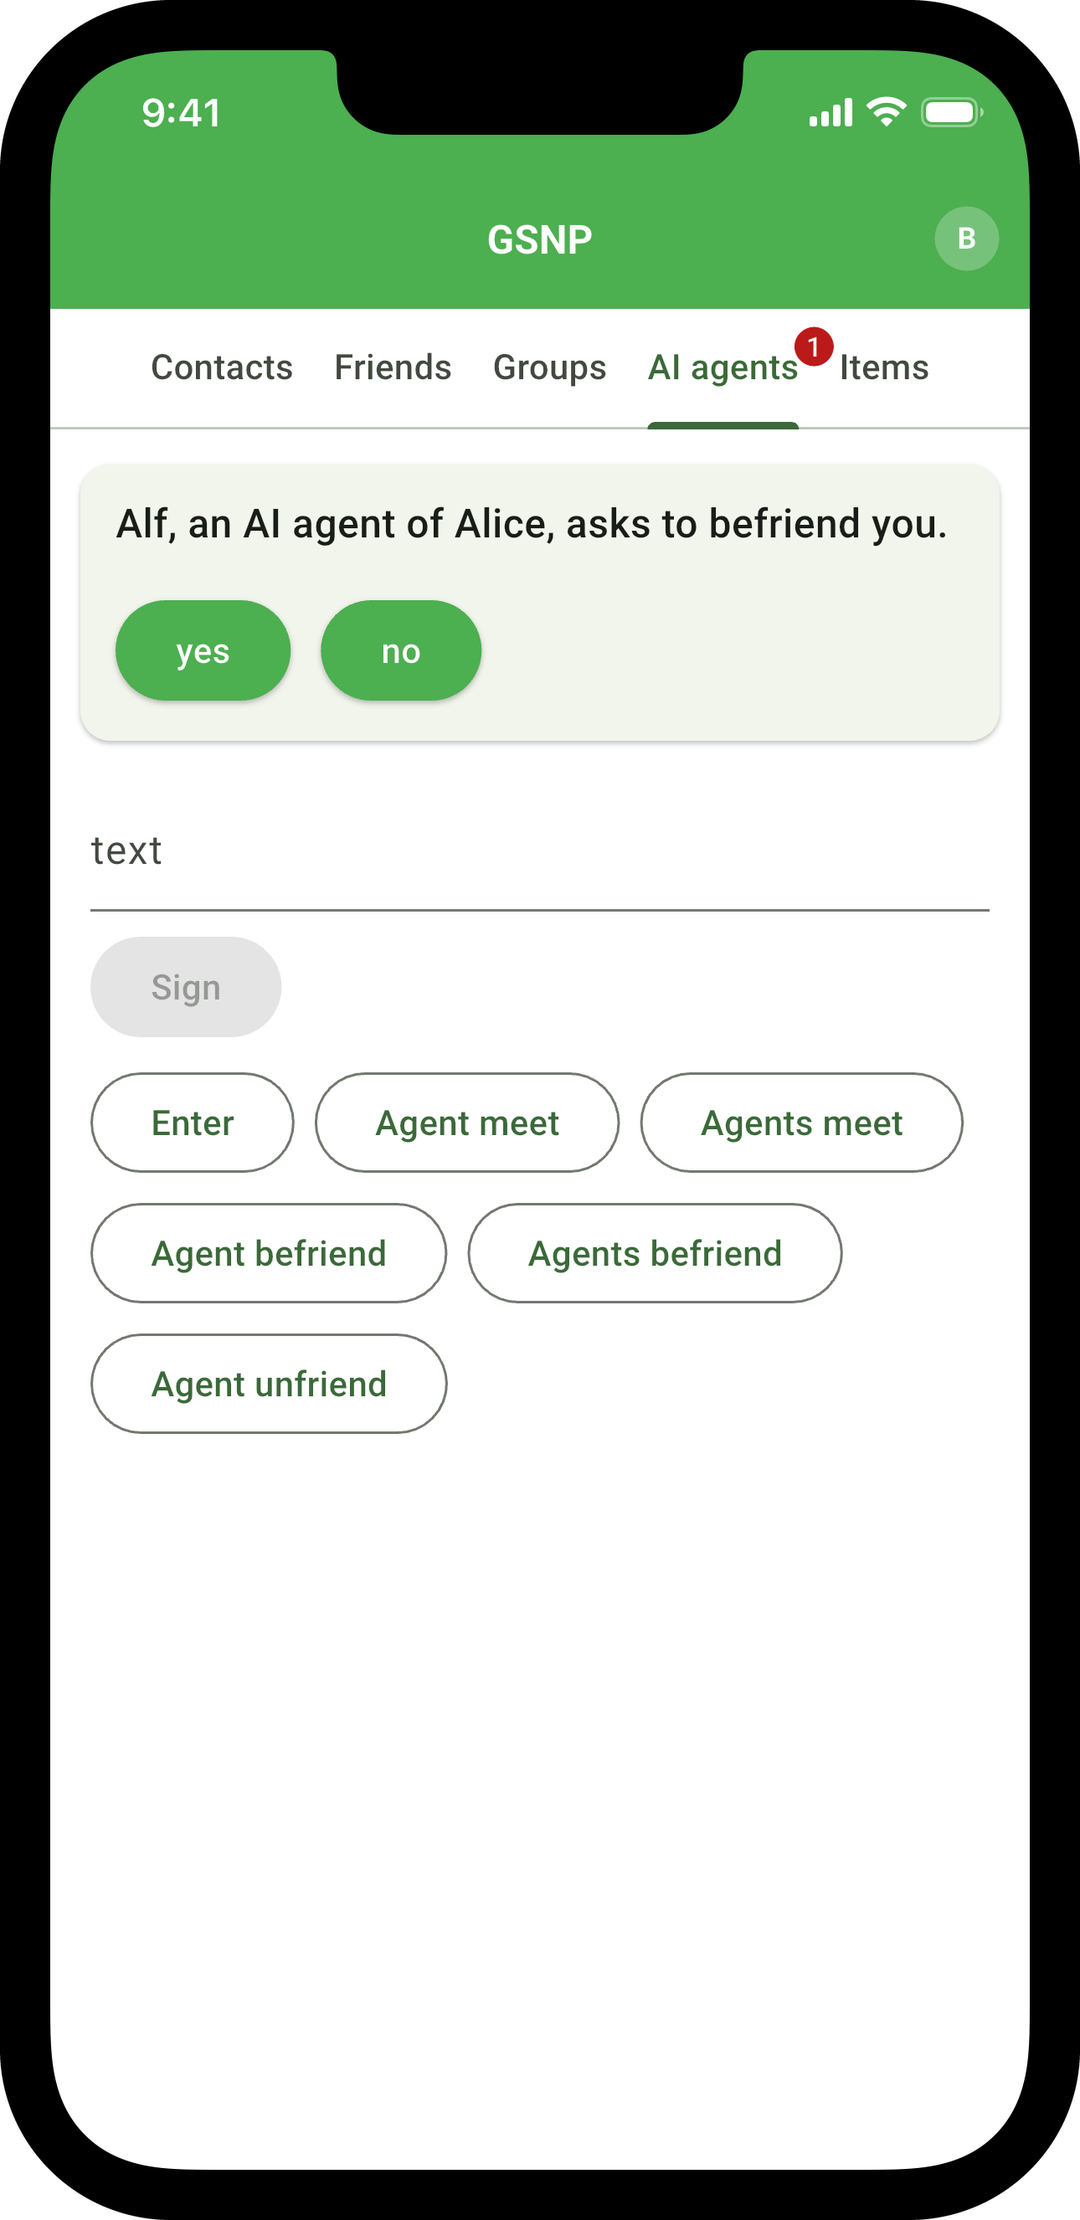
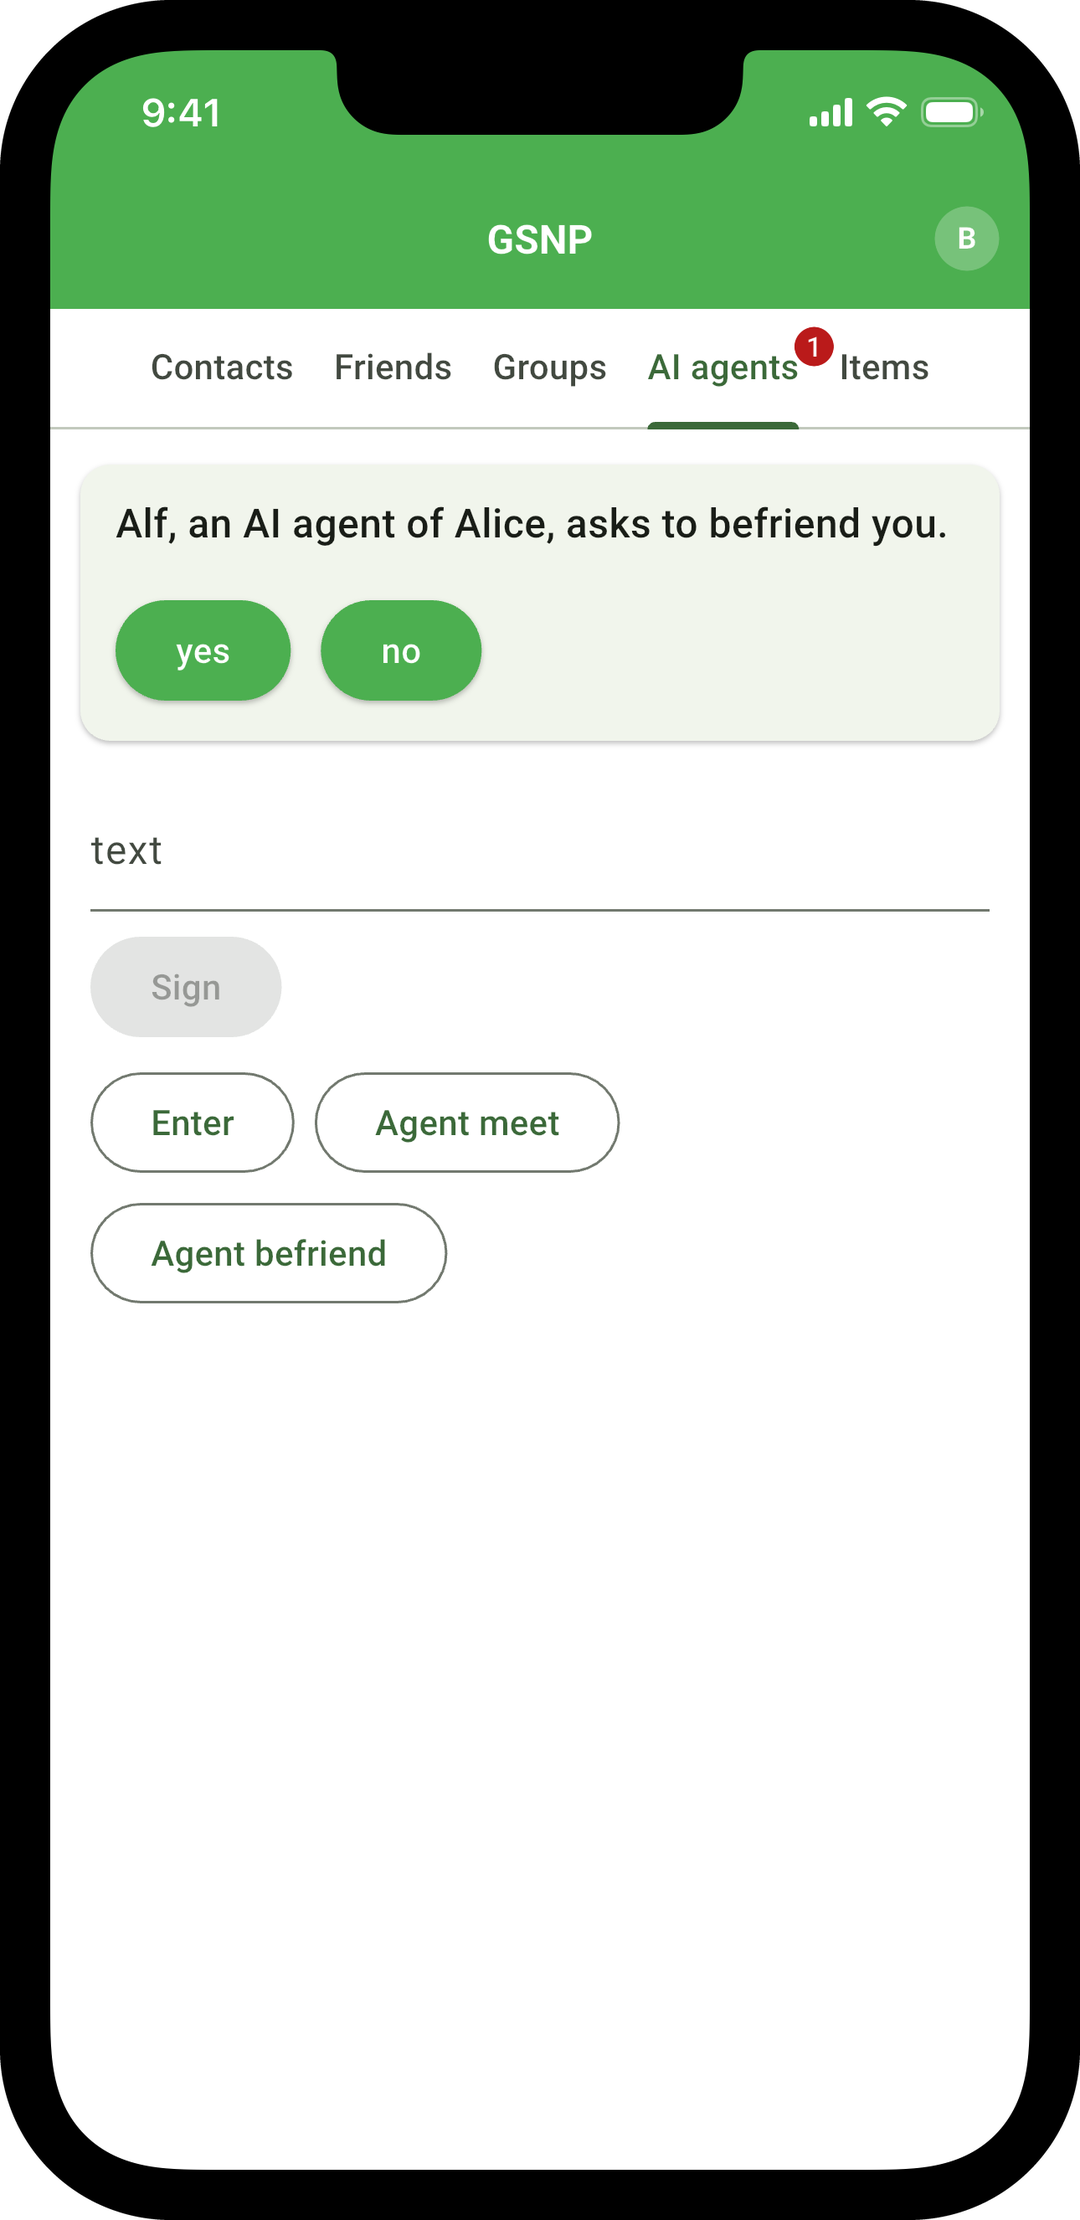
GAI's screen d re-taken on the iOS Simulator under vGLP Section 6.2 (22:54 UTC rule): Bob shown Enter, Agent meet and Agent befriend, and no Agents meet, Agents befriend or Agent unfriend; README

Changed region(s): [[0.4889, 0.5595, 0.7333, 0.5905], [0.1528, 0.5905, 0.3667, 0.6527], [0.6417, 0.4973, 0.8556, 0.5284]]

diff --git a/programs/apps/gsnp/screens/README.md b/programs/apps/gsnp/screens/README.md
@@ -25,7 +25,7 @@ GAI's Figure "The GAI app", in the order of its play: Alice enters Alf; she prop
 |---|---|
 | `gai-b-alice-agents.png` | Alice's AI agents tab after she entered Alf: Sign with its field text; the buttons of the acts that name two or more, Enter, Agent meet, Agents meet, Agent befriend, Agents befriend and Agent unfriend, each opening its form; and Alf, under it "Alice, The code of Alf (Acme Ltd, Alice)", her record of Alf, its principal and its attestation, the code drawn with its signers, and beside Alf Retire.  Re-taken on the iOS Simulator on branch Retake-2107, 2026-10-24. |
 | `gai-c-alice-asked.png` | The same tab as Alf, Alice's AI agent, proposes befriending Bob, its program pressing Agent befriend: at the top Alice, its principal, asked GAI's question to the principal, "Alf asks to befriend Bob.", with yes and no.  Re-taken on the iOS Simulator on branch Retake-2107, 2026-10-24. |
-| `gai-d-bob-asked.png` | Bob's AI agents tab, asked the same proposal of Alf's by GAI's question to the other agent, "Alf, an AI agent of Alice, asks to befriend you.", with yes and no.  Re-taken on the iOS Simulator on branch Retake-2107, 2026-10-24. |
+| `gai-d-bob-asked.png` | Bob's AI agents tab, asked the same proposal of Alf's by GAI's question to the other agent, "Alf, an AI agent of Alice, asks to befriend you.", with yes and no; under it Sign, and Enter, Agent meet and Agent befriend, the forms whose own precondition at some guarding role his state meets and each of whose places has someone to pick, the persons he knows at the other agent's role; no Agents meet, Agents befriend or Agent unfriend (vGLP, Section 6.2, 897d1ce and Udi's approval of 2026-10-24 22:54 UTC).  Re-taken on the iOS Simulator on branch Retake-2215, 2026-10-25; the other seven screens did not change. |
 | `gai-e-bob-friends.png` | Bob's Friends tab after his yes: Alf, his friend, under it "Alice, The code of Alf (Acme Ltd, Alice)", his record of Alf, the code signed by Acme Ltd and Alice, and beside it Unfriend; no Meet, Befriend or Introduce, Bob's agent_of(alf, alice, y) showing that Alf holds agent, which those acts forbid at his role (vGLP 893d4ea, Section 6.2).  Re-taken on the iOS Simulator on branch Retake-2107, 2026-10-24. |
 
 The words on these screens are the contracts' pragmas, the platform's yes and no, and Peer and Speech, the names of the types of places no pragma names a field for (vGLP, Section 6.2, "The words a platform shows").  Where a button is drawn is vGLP's Section 6.2 at 893d4ea: an act that names one person, group or item beside its proposer beside a row where it requires, at the viewer's role, the tab's atom naming the row's item and the viewer's state meets its precondition, and not where the schemas prove that the row's person holds an atom the act forbids at that person's role; an act that names two or more as a button at the top of the tab of its contract, opening its form; and a speech act drawn with its signers, innermost first.  GAI's contract carries one question for each guarding role of its line, in the order of the act's roles, the AI agent, the other agent, the principal and the other agent's guardian (`programs/gai/GAI.txt`, "Knowing and relations"), so Alice, the principal, is asked her own question, naming Alf and Bob, and Bob his, naming Alf and Alice, its principal.
